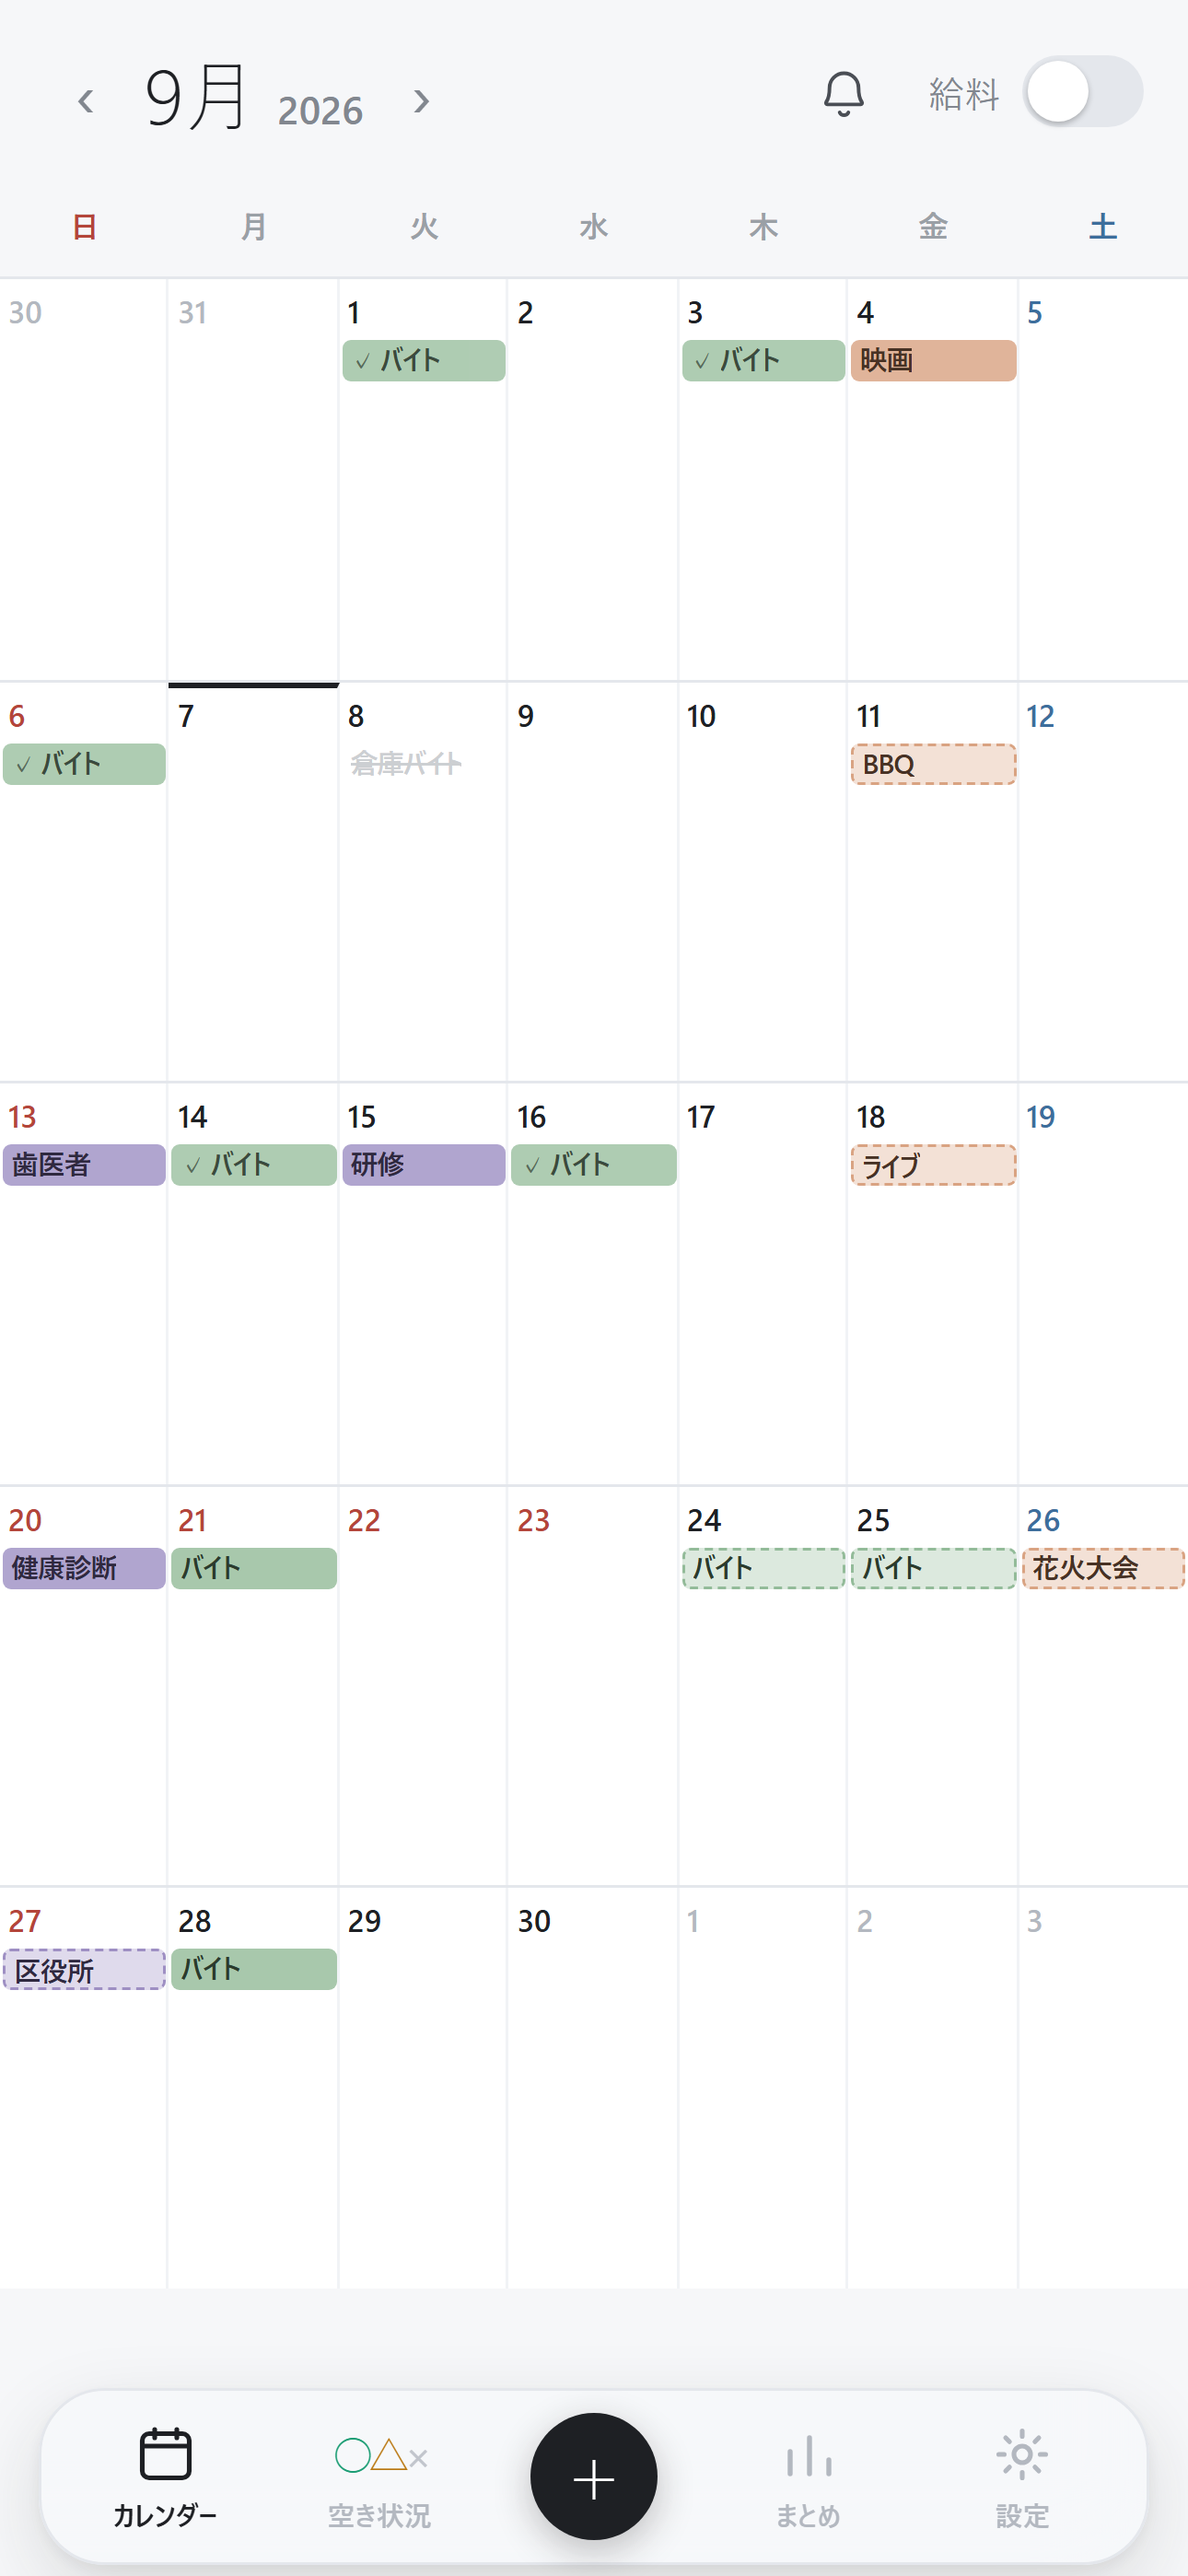
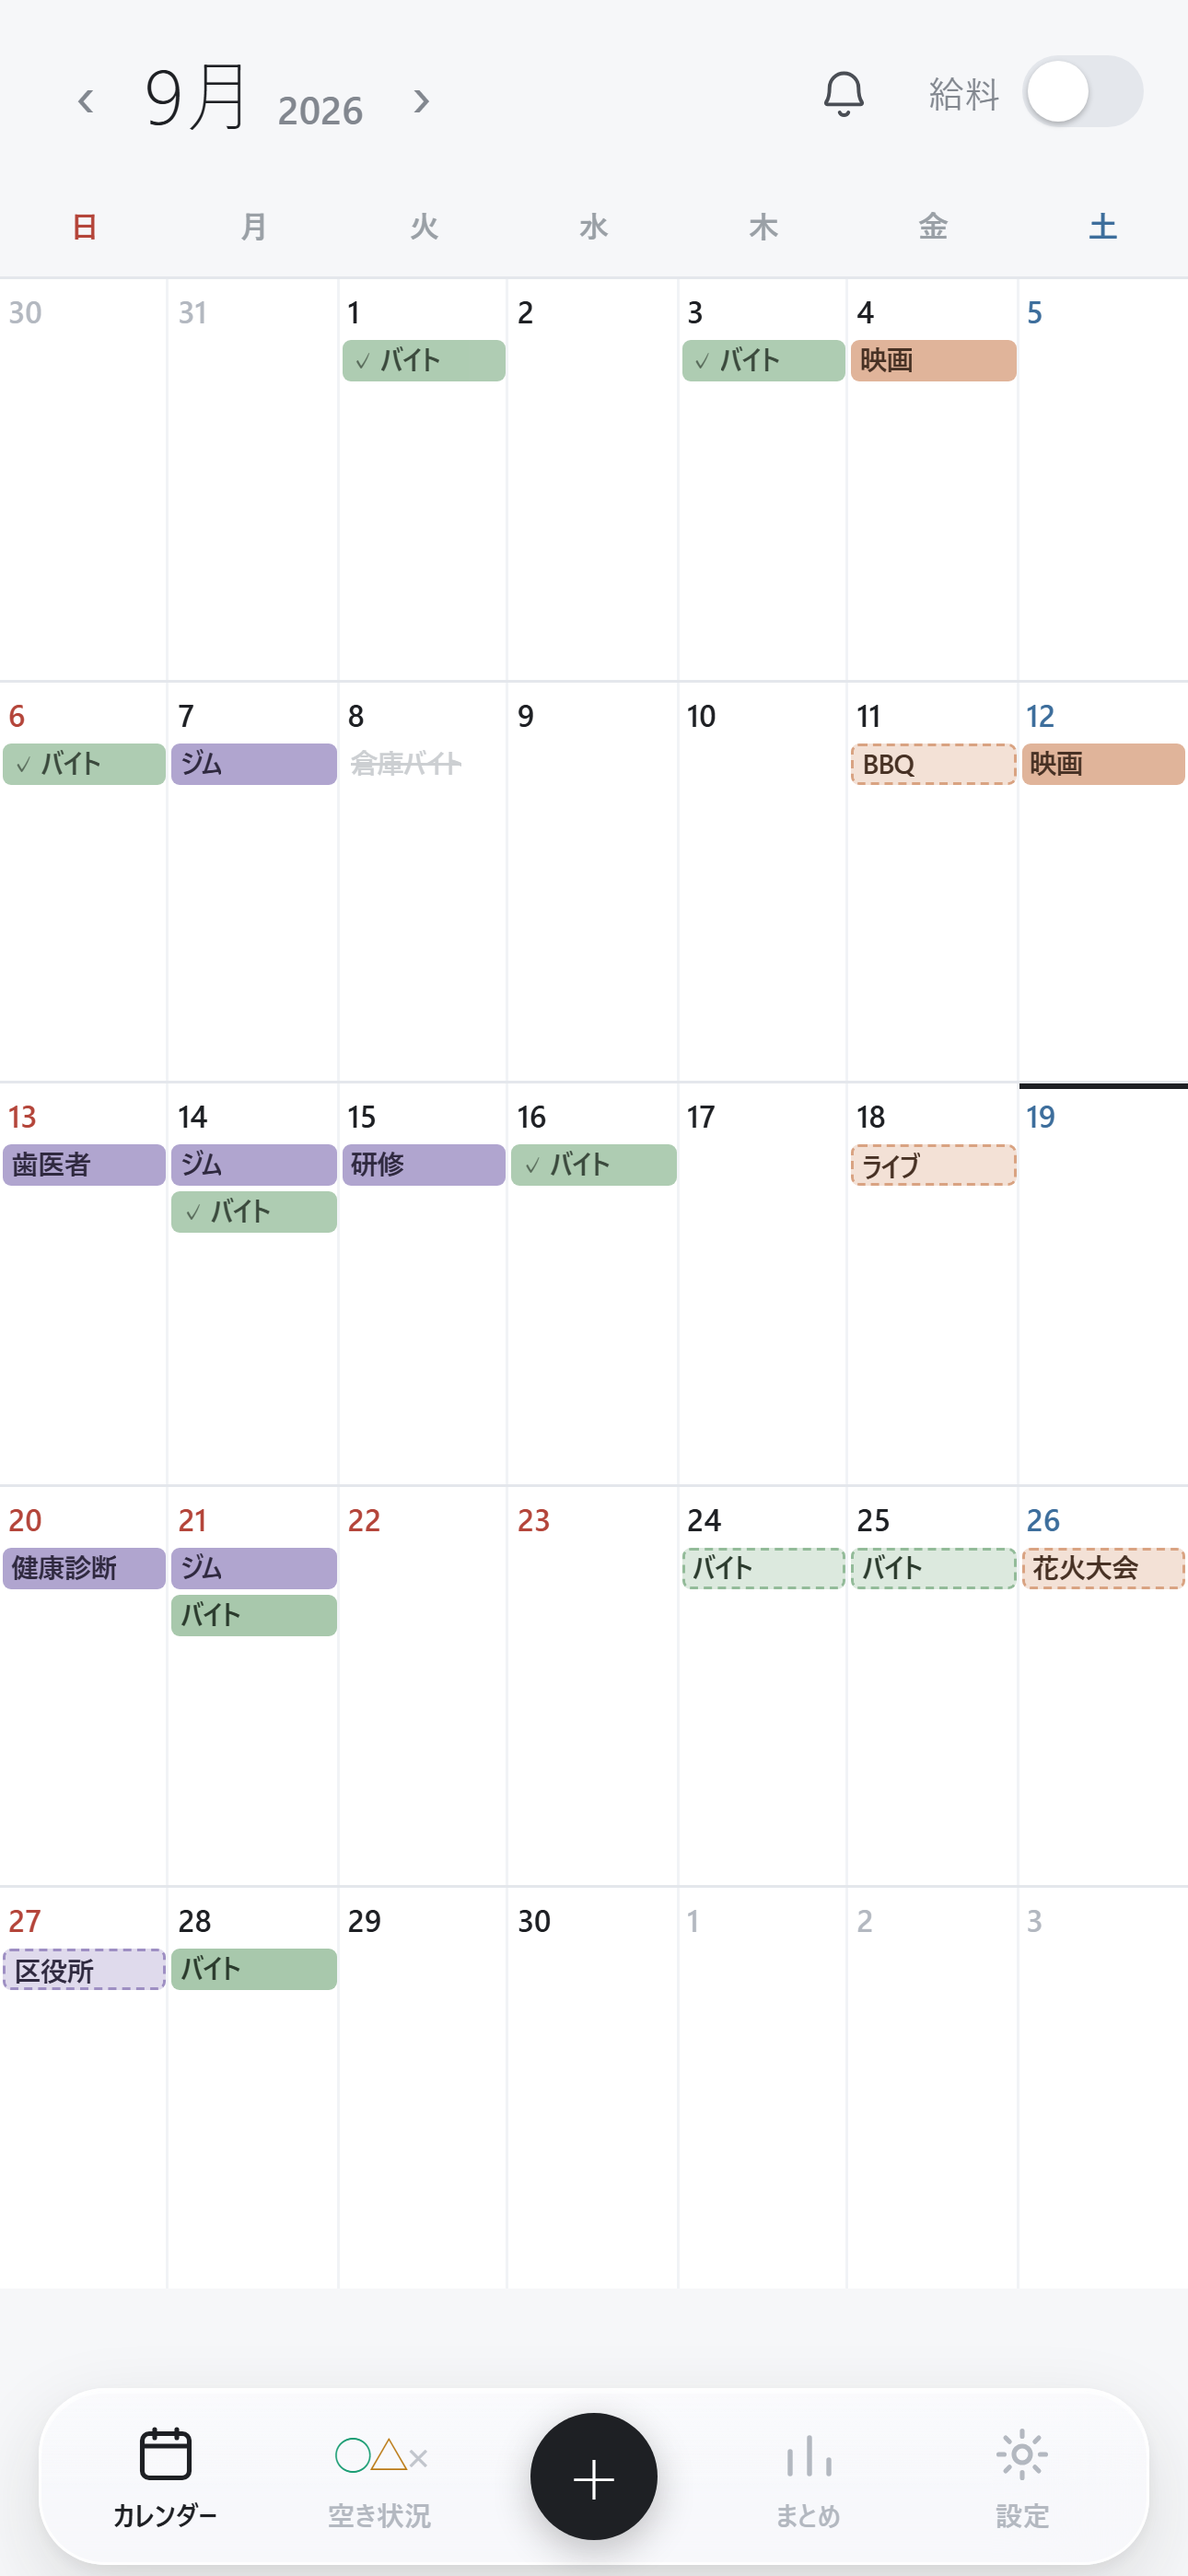
ストアのスクリーンショットを、他と違うところが出る5枚に組み直す
1 未定のまま、置ける。（App名と同じことを言う。看板）
2 点線が、塗りに変わる。聞かれて、選ぶだけ。（そのまま）
3 ホーム画面に、まだ何件か。（ウィジェット。実機のホーム画面のスクショが要る。
  描いたウィジェットは使わない。ss-widget.png が無いあいだは飛ばす）
4 「いつ空いてる？」に、画像1枚で答える。（そのまま）
5 何に時間を使ったか、見える。（1.2 のまとめ。バイトの人だけのものではなくなった）

給料の1枚と空き状況の一覧は落とした。どのシフトのアプリにもある画面。

demo に朝のジム×3と映画をもう1本足して、まとめで「同じ名前はまとめる」が見えるようにした。

diff --git a/app/src/demo.js b/app/src/demo.js
@@ -13,6 +13,11 @@ const RAW = [
   { day: 16, type: 'baito', title: 'バイト', start: '17:00', end: '22:00', status: 'jisseki', actualEnd: '23:00' },
   { day: 18, type: 'asobi', title: 'ライブ', start: '18:00', end: '22:00', status: 'mikakutei' },
   { day: 20, type: 'yoji', title: '健康診断', start: '09:00', end: '11:00', status: 'kakutei' },
+  // まとめで「同じ名前はまとめる」が見えるように。朝のジムを3回、映画をもう1本
+  { day: 7, type: 'yoji', title: 'ジム', start: '07:00', end: '08:30', status: 'kakutei' },
+  { day: 14, type: 'yoji', title: 'ジム', start: '07:00', end: '08:30', status: 'kakutei' },
+  { day: 21, type: 'yoji', title: 'ジム', start: '07:00', end: '08:30', status: 'kakutei' },
+  { day: 12, type: 'asobi', title: '映画', start: '19:00', end: '22:00', status: 'kakutei' },
   { day: 21, type: 'baito', title: 'バイト', start: '17:00', end: '22:00', status: 'kakutei' },
   { day: 24, type: 'baito', title: 'バイト', start: '17:00', end: '22:00', status: 'mikakutei', want: ['17:00', '22:00'] },
   { day: 25, type: 'baito', title: 'バイト', start: '12:00', end: '18:00', status: 'mikakutei' },
